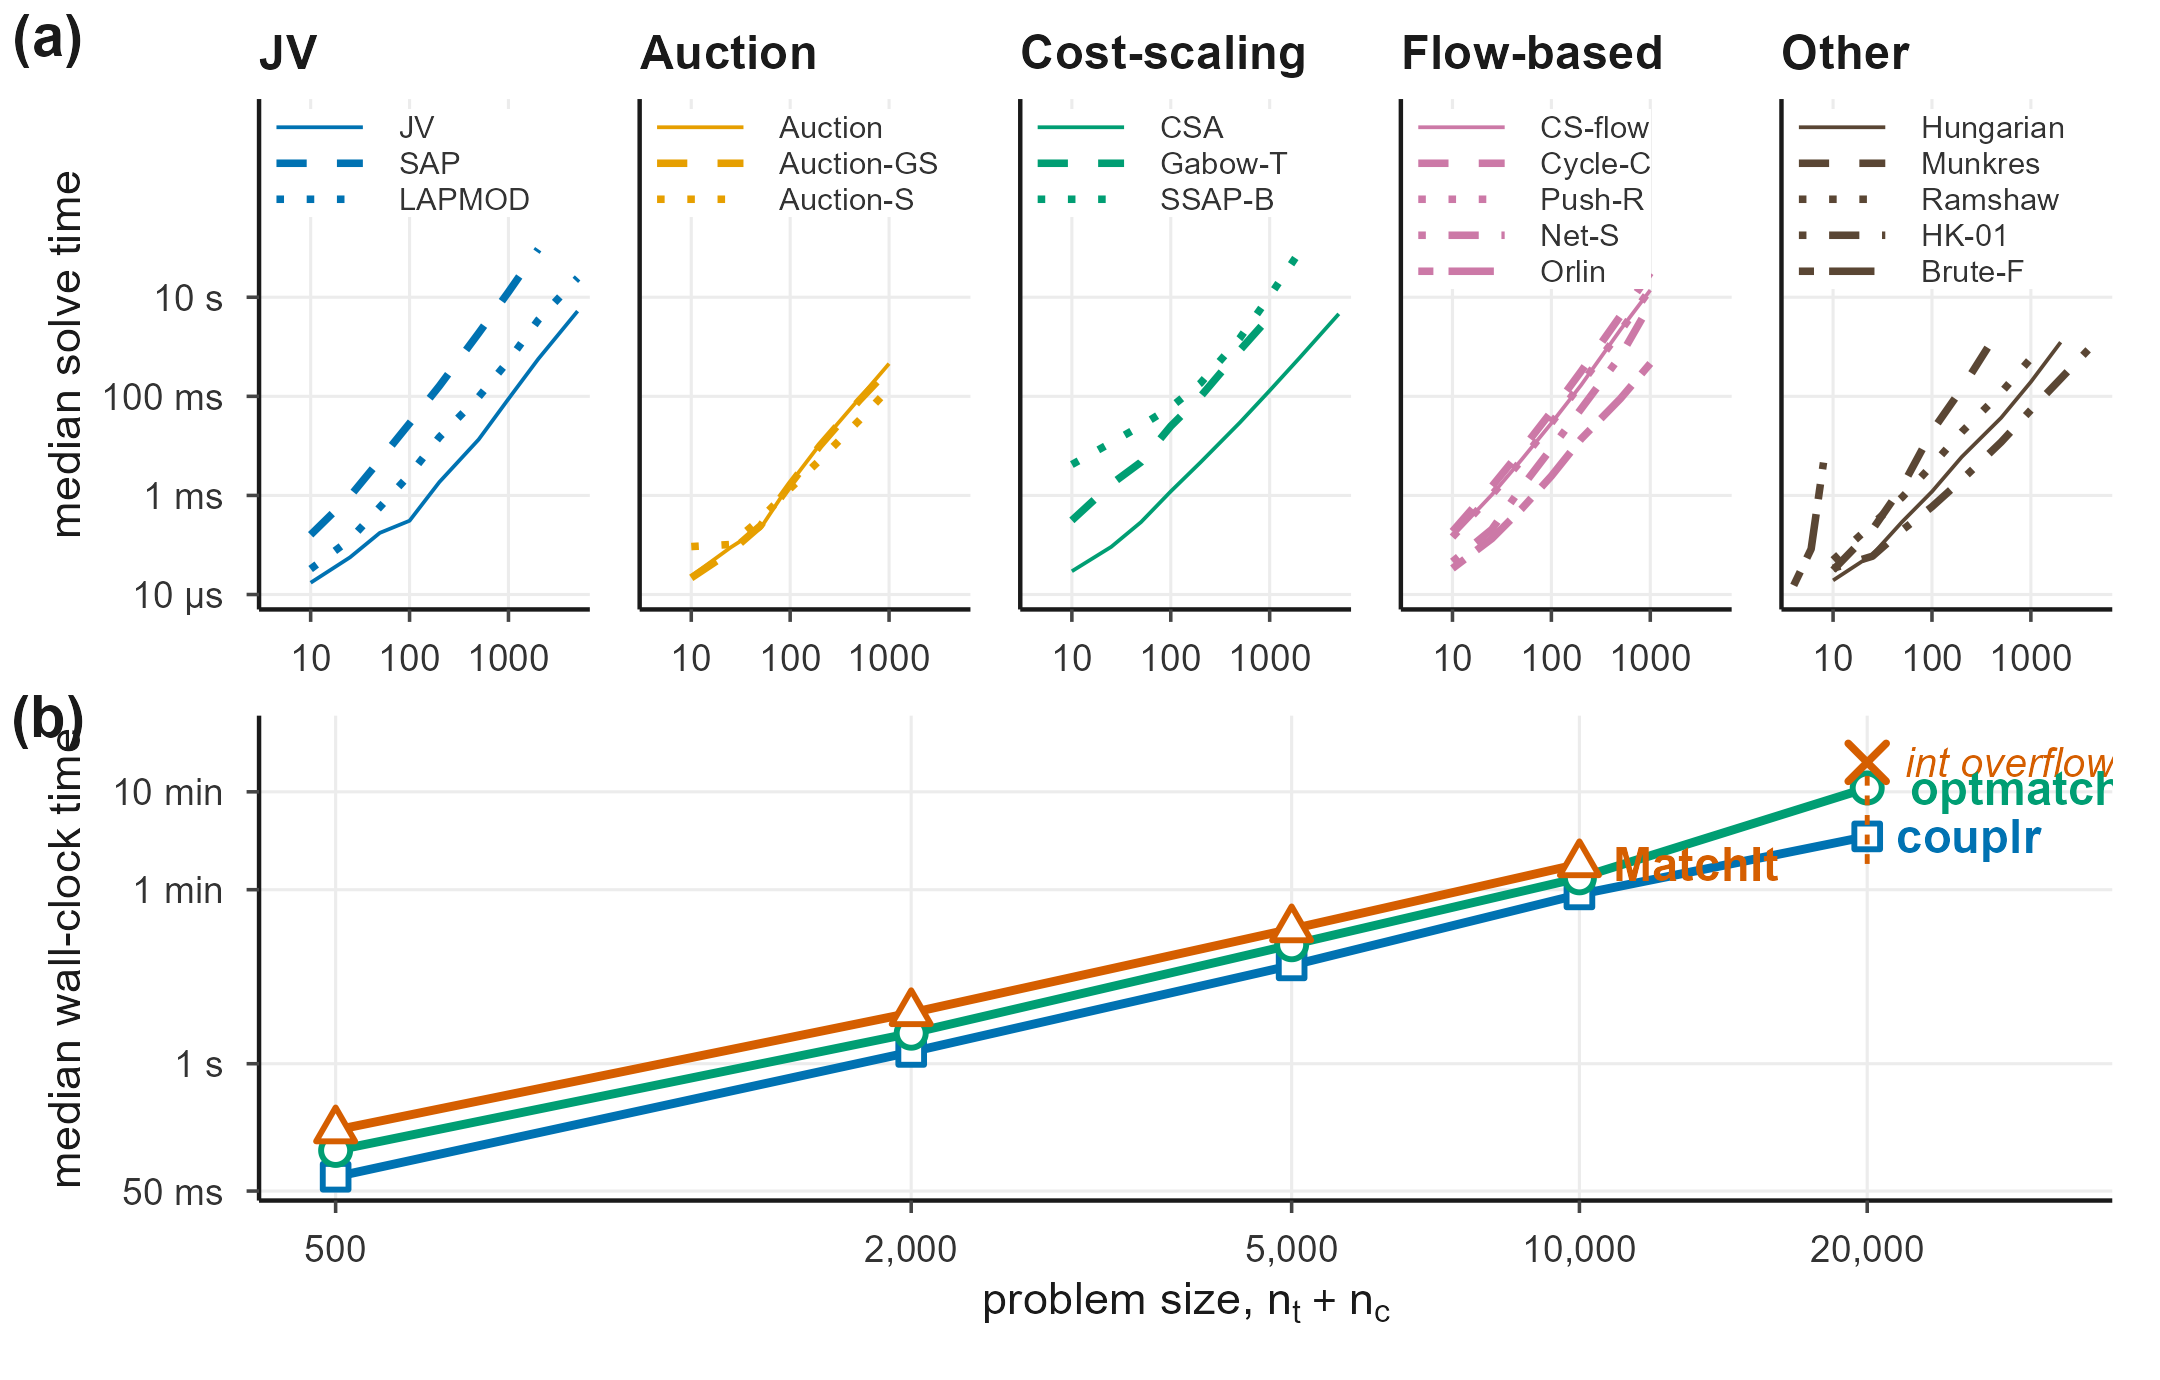
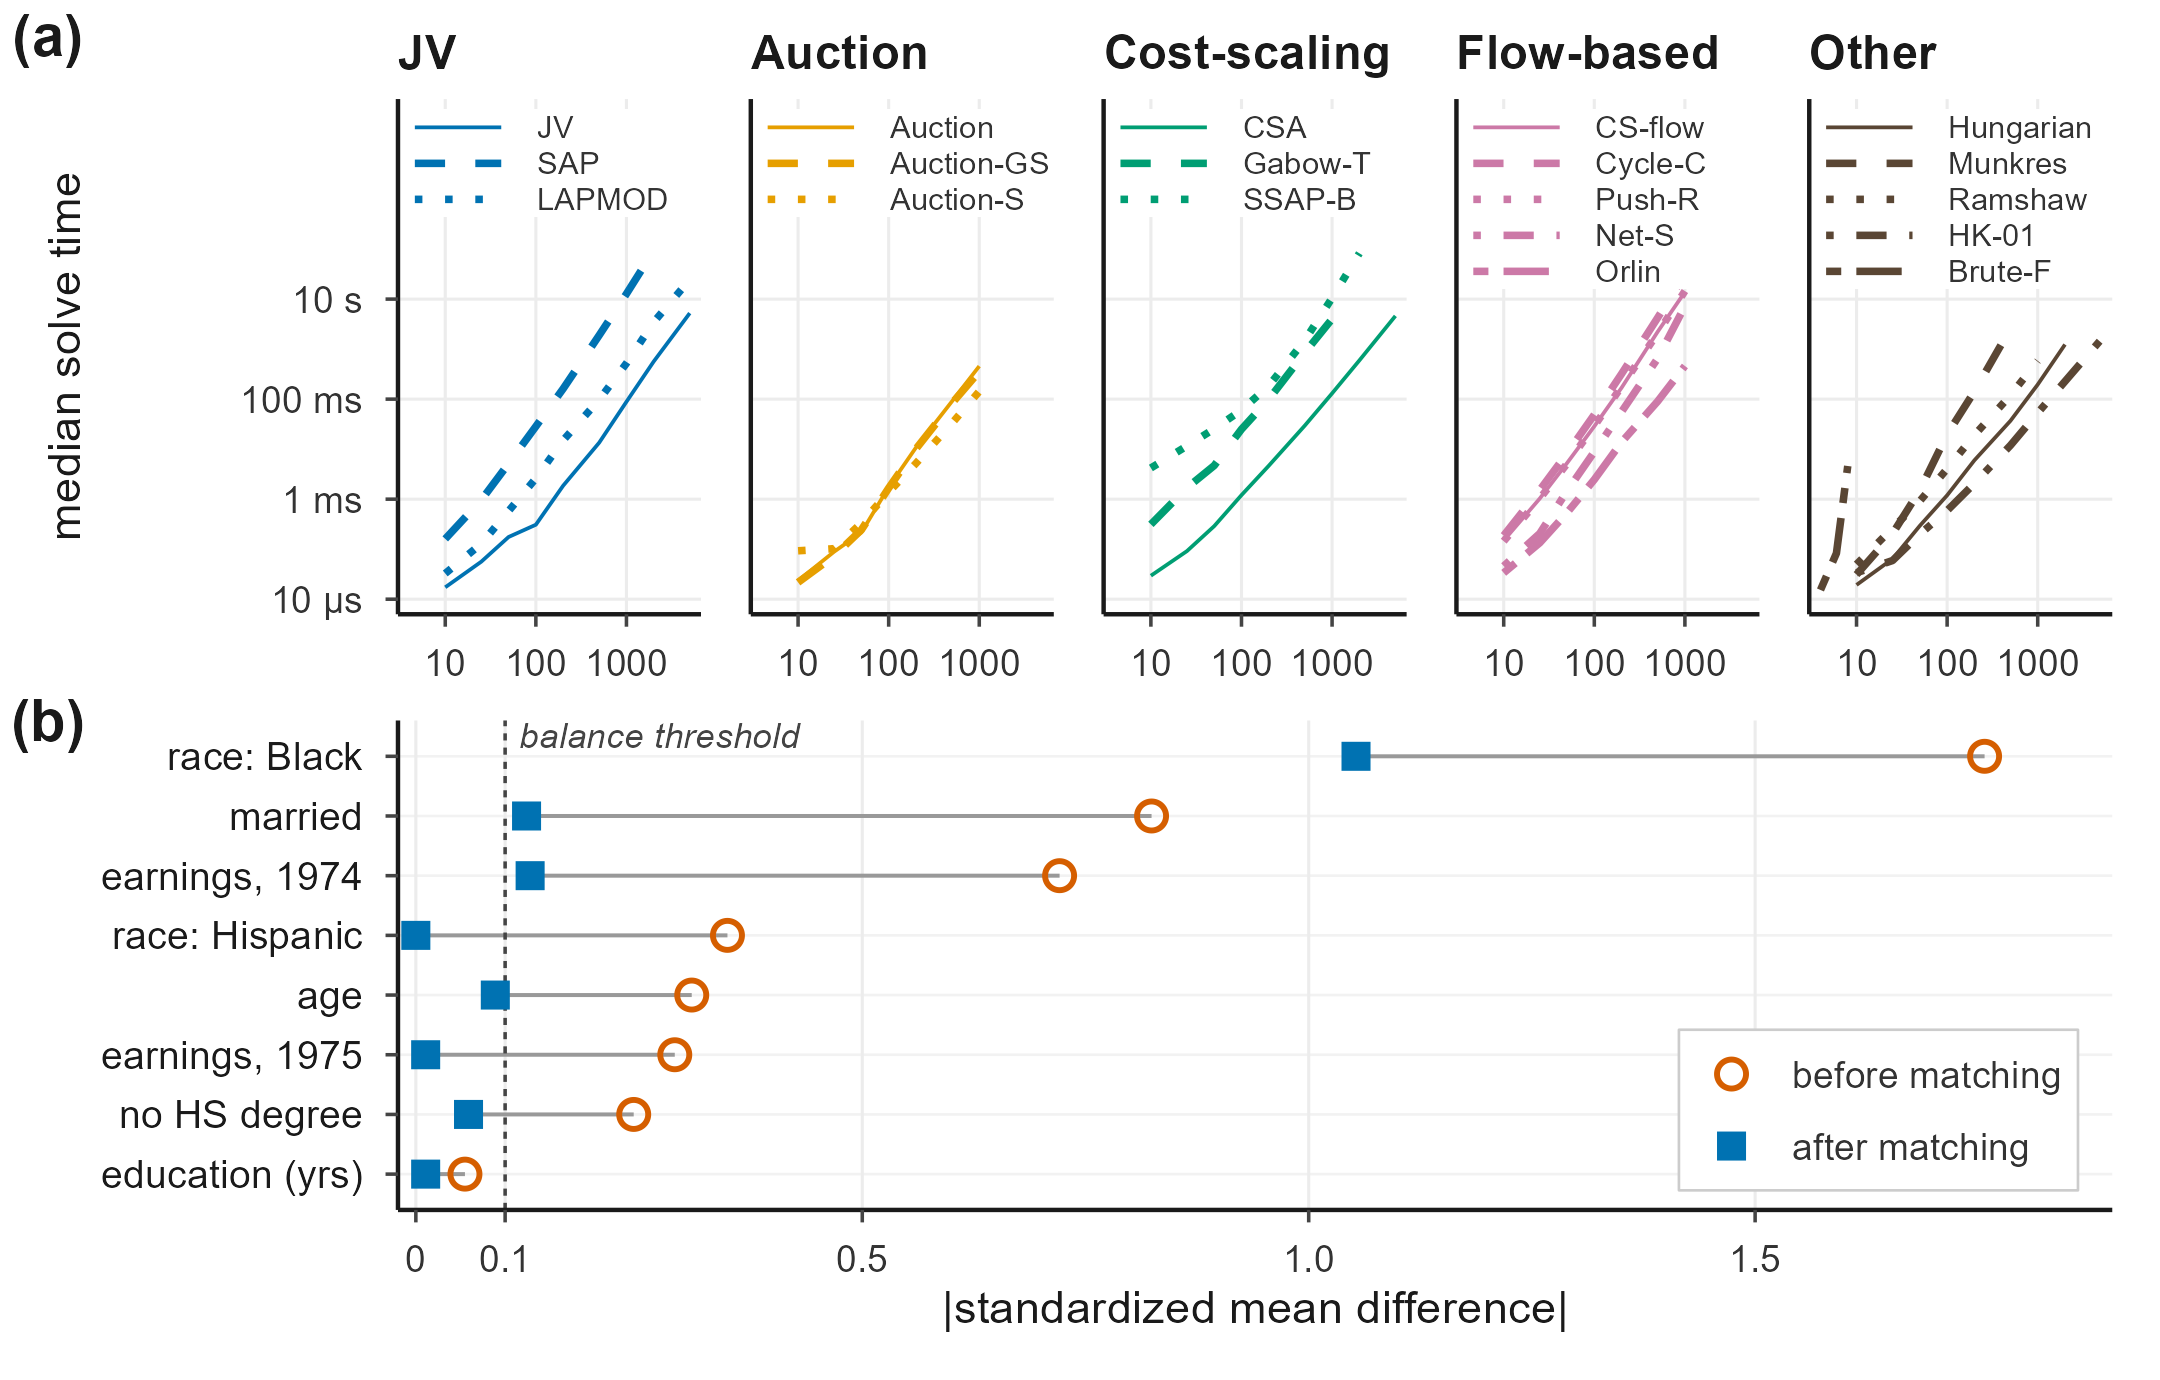
paper: refresh Lalonde per-covariate table and benchmark figure

diff --git a/paper/paper.md b/paper/paper.md
@@ -141,16 +141,16 @@ assignment solvers in `couplr`, arranged as five small-multiple panels
 grouped by algorithm family (JV / augmenting-path, Auction, Cost-scaling,
 Flow-based, and Other). Within each panel, individual solvers share a
 single family colour and are distinguished by line style; all panels share
-log--log axes. (b) End-to-end 1-to-1 optimal Mahalanobis matching on
-synthetic LaLonde-style data ($n_t : n_c = 1 : 2$, eight covariates),
-comparing `couplr` ($\blacksquare$) against `optmatch` ($\bullet$) and
-`MatchIt` ($\blacktriangle$). At $n_t + n_c = 20{,}000$, `couplr` is
-$3.1\times$ faster than `optmatch`; `MatchIt::matchit(method = "optimal")`
-aborts inside its `optmatch` backend with an integer-overflow at this size.
-(a) is the median of 5 replicates on a single core, integer cost matrices
-with entries in $[1, 10{,}000]$; (b) follows the protocol of Table
-\ref{tab:scaling}. Reproducible from `paper/make-figure.R`,
-`paper/bench_scaling.R`, and `paper/bench_scaling_alternatives.R`.
+log--log axes. Median of 5 replicates on a single core; integer cost
+matrices with entries in $[1, 10{,}000]$. (b) Absolute standardized mean
+differences on the LaLonde NSW data (185 treated, 429 control, eight
+covariates) before and after 1-to-1 optimal Mahalanobis matching. After
+matching, `couplr`, `MatchIt`, and `optmatch` produce identical $|SMD|$ to
+three decimal places, so a single matched point per covariate is shown.
+Seven of the eight covariates fall below the 0.1 balance threshold (dashed
+line); the `race_Black` indicator is reduced from $1.757$ to $1.053$, a residual no
+1-to-1 matcher can resolve here. Reproducible from `paper/make-figure.R`
+and `paper/bench_lalonde.R`.
 \label{fig:benchmark}](figures/benchmark.png){width=100%}
 
 `balance_diagnostics()` reports standardized mean differences, variance
@@ -204,7 +204,7 @@ Mahalanobis distance with pooled within-group covariance, the convention
 the canonical Lalonde NSW dataset [@LaLonde1986; @DehejiaWahba1999] (185
 treated, 429 control, eight covariates) all three packages produce identical
 absolute standardized mean differences to three decimal places, reducing
-the maximum $|\text{SMD}|$ from $1.757$ to $1.053$ on `race_black` (a
+the maximum $|\text{SMD}|$ from $1.757$ to $1.053$ on `race_Black` (a
 residual no 1-to-1 matcher can resolve here) and the remaining seven
 covariates to $\le 0.124$ [@Stuart2010]; per-covariate values are in
 `paper/lalonde-per-covariate.csv`.